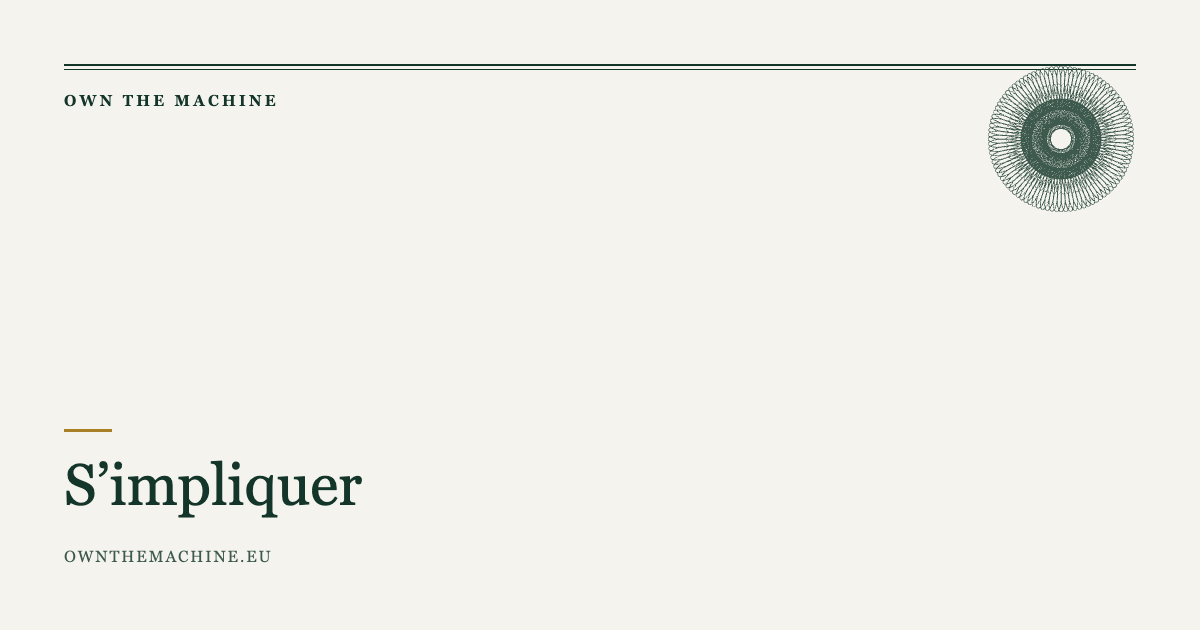
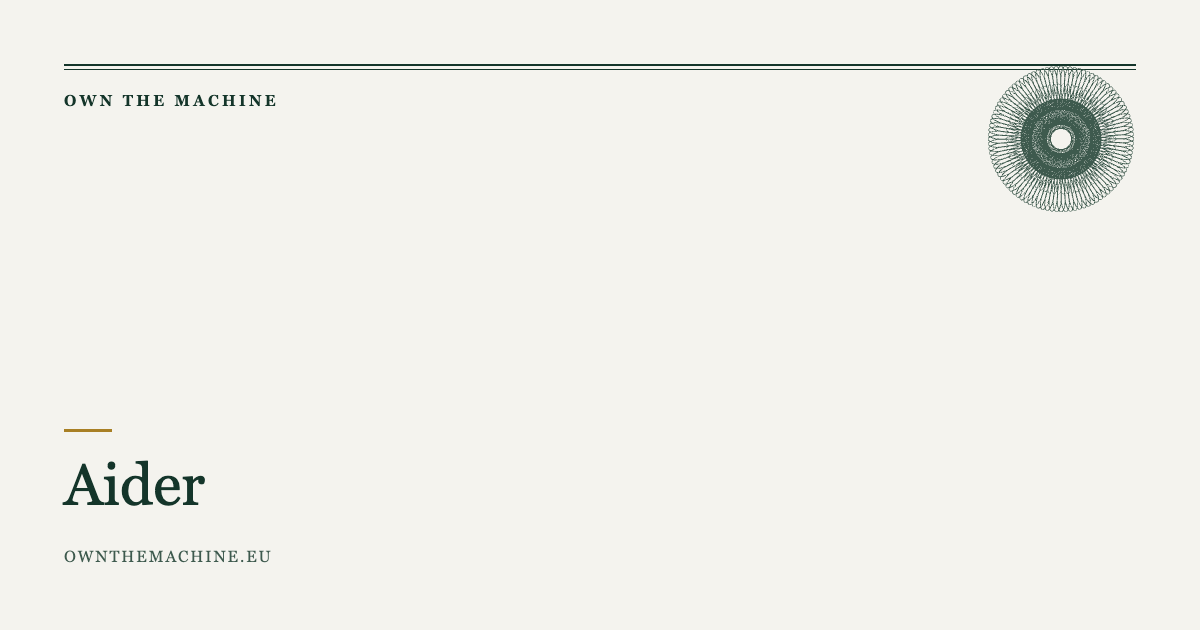
Dutch and French: Helpen and Aider as the third menu item, clearer footer headings; owner decisions 16 to 19

Changed region(s): [[0.0308, 0.7238, 0.3083, 0.8143]]

diff --git a/intent/site/2026-11-11-plain-front-launch.md b/intent/site/2026-11-11-plain-front-launch.md
@@ -30,3 +30,11 @@ Source: owner decisions page, 11 November 2026 (points 1 to 6, 10 and 11), answe
 
 ## Implemented by
 - PR #22 (plain front)
+
+## Dutch and French (owner decisions 16 to 19, 13/11/2026)
+> "16: Agree", "17: Agree", "18: Agree", "19: Agree" (David, 13 November 2026, on the recommendations below)
+
+16. The Dutch plain front goes live as reviewed; the owner read it and asked for no changes.
+17. The French goes live without waiting for a native French reader; corrections follow if one finds something.
+18. The third menu item is "Helpen" in Dutch and "Aider" in French, and the footer headings become "Helpen en meer over ons" and "Aider et en savoir plus", so that the menu item, the join page ("Meedoen", "Participer") and the footer heading no longer read as near-synonyms.
+19. Dutch and French go live once these changes pass the checks; German and Spanish follow next.
